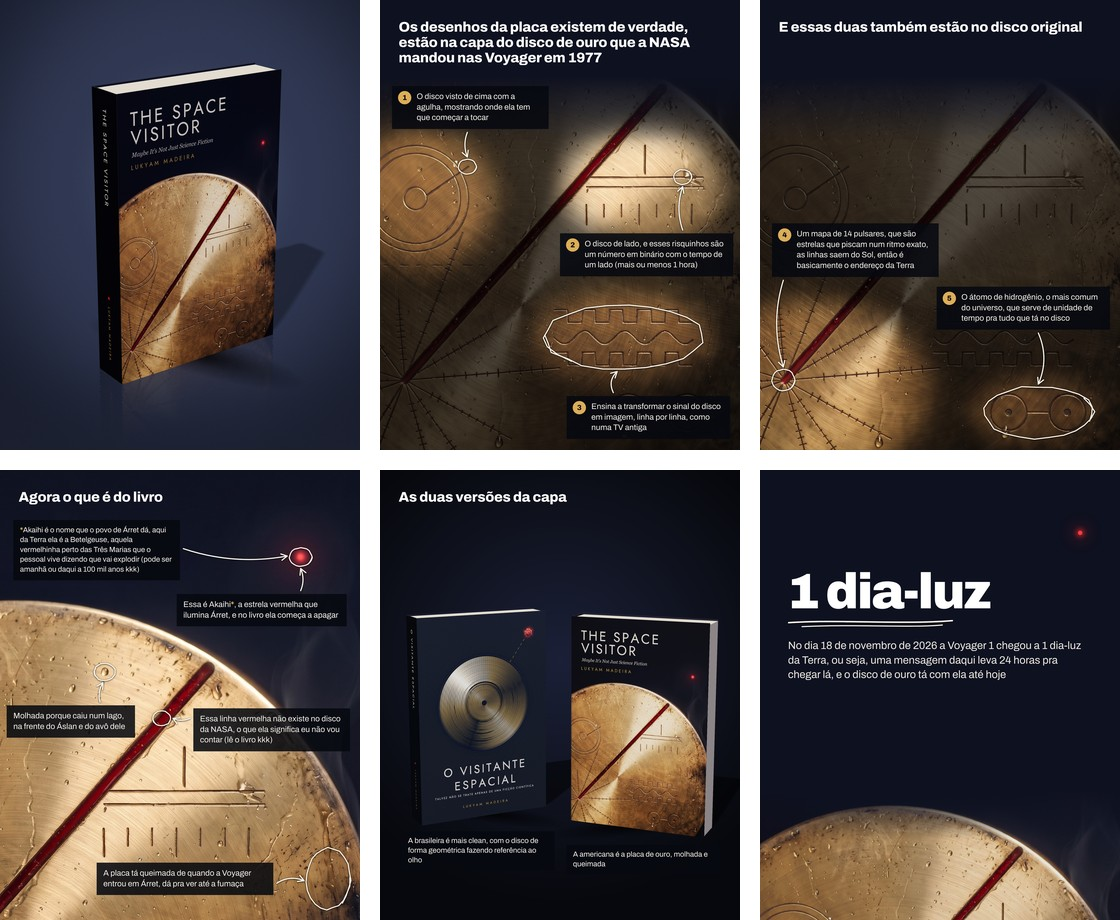
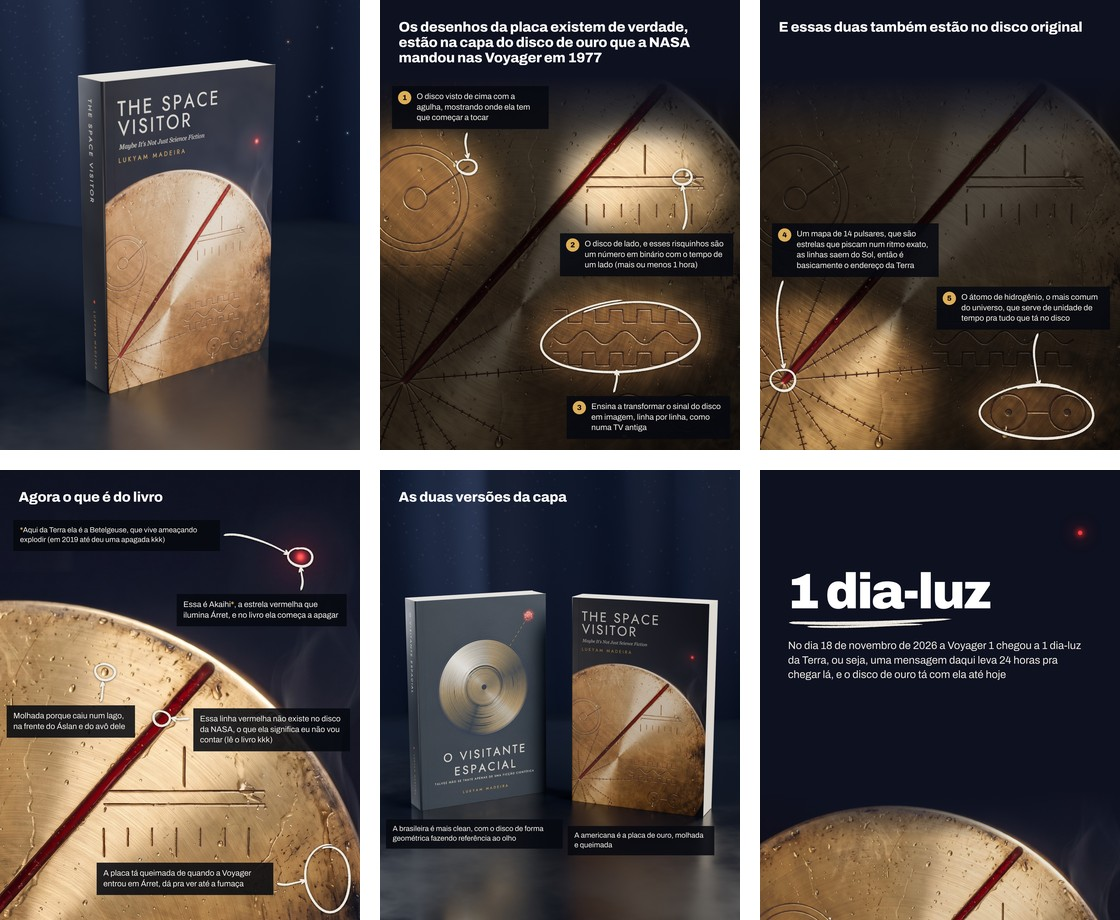
Use the realistic two-book render on slide 5
Claude-Session: https://claude.ai/code/session_018jbtg3iWLGLmtVSJbcNmQE

diff --git a/o-visitante-espacial/post_capa_final/fonte/slides.html b/o-visitante-espacial/post_capa_final/fonte/slides.html
@@ -226,8 +226,9 @@ async function main(){
     div('head','As duas versões da capa',{left:'56px',top:'58px',width:'960px'});
     const cx1=+(q.get('px')||294), cy1=+(q.get('py')||1084), cx2=+(q.get('ex')||789), cy2=+(q.get('ey')||1125);
     const caps=[[cx1,cy1,'A brasileira é mais clean, com o disco de forma geométrica fazendo referência ao olho'],[cx2,cy2,'A americana é a placa de ouro, molhada e queimada']];
-    for(const [x,y,t] of caps){
-      const w=STYLE==='mao'?420:460;
+    const capW=[+(q.get('pw')||460), +(q.get('ew')||460)];
+    for(const [ci,[x,y,t]] of caps.entries()){
+      const w=STYLE==='mao'?420:capW[ci];
       const css={left:(x-w/2)+'px',top:y+'px',width:(w-(LOOK==='ficha'?36:LOOK==='edit'?40:0))+'px',textAlign:STYLE==='mao'?'center':'left'};
       if(LOOK==='edit')Object.assign(css,{padding:'14px 20px 16px',fontSize:'22px'});
       if(LOOK==='ficha')Object.assign(css,{fontSize:'23px'});
